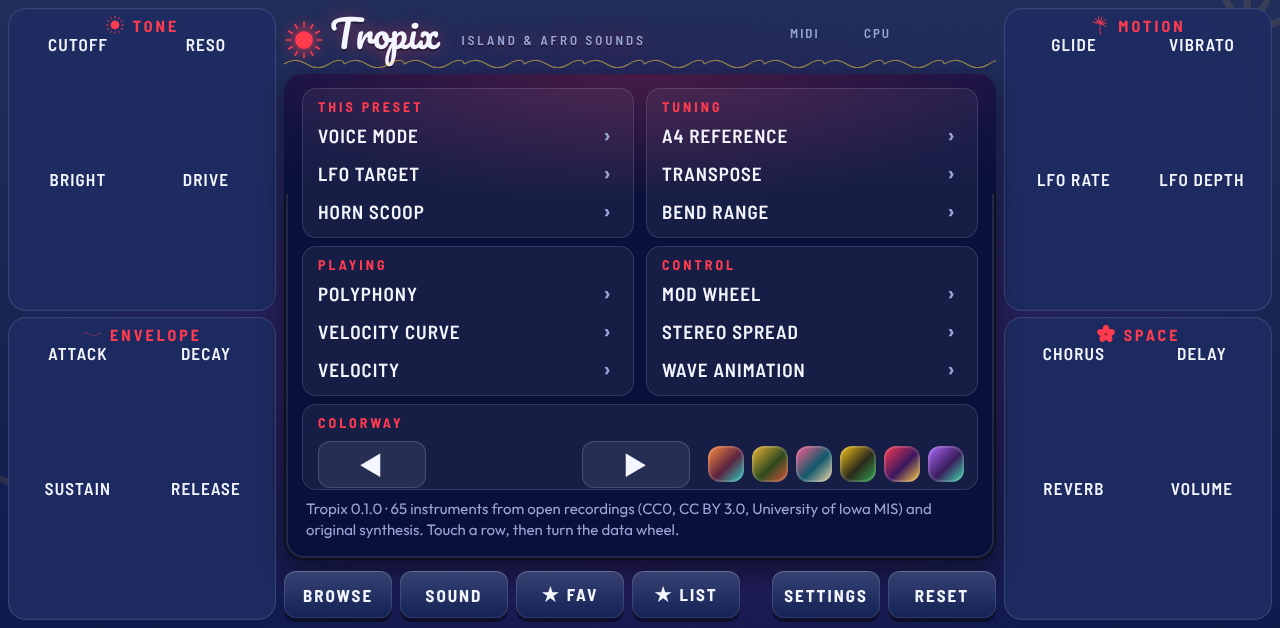
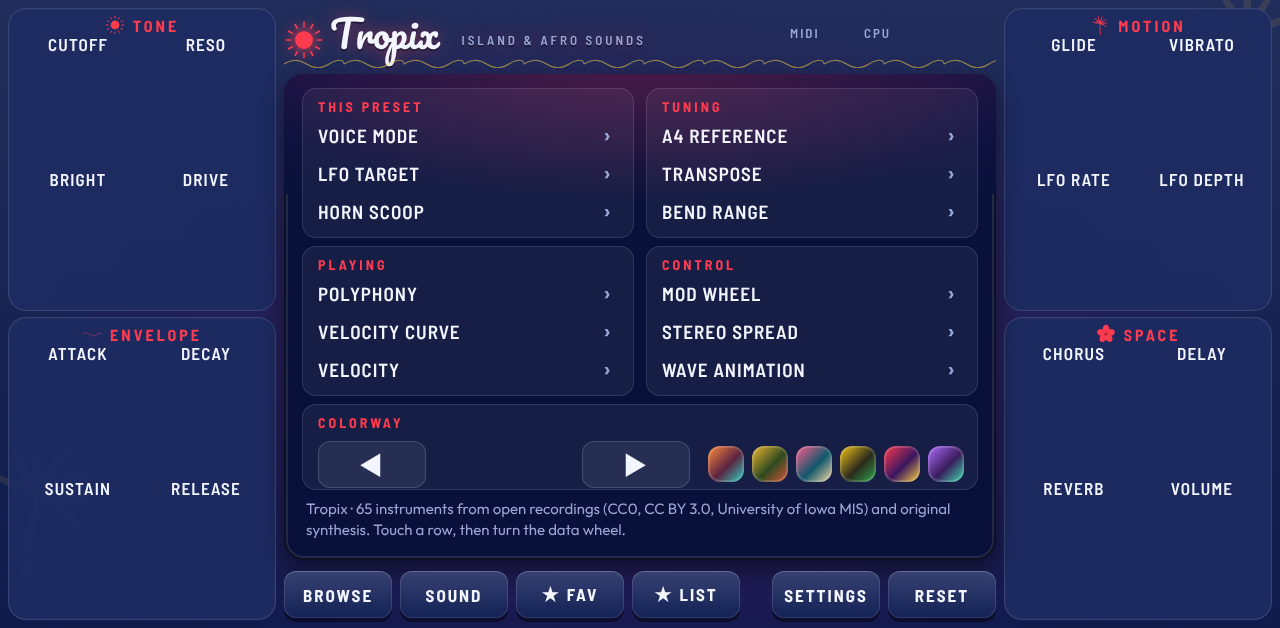
SETTINGS: no version in the about line, so the art needn't change per release
Claude-Session: https://claude.ai/code/session_01VzP5McZMmBVAin6Mtzdvhn

Changed region(s): [[0.25, 0.7866, 0.75, 0.8774]]

diff --git a/tools/make_skin.py b/tools/make_skin.py
@@ -320,7 +320,7 @@ def settings_html(th):
         out.append(f"<div class='abs' style='left:{sx}px;top:{sy}px;width:{sw}px;height:{sh}px;border-radius:12px;"
                    f"background:linear-gradient(135deg,{v['accent']},{v['bg2']} 55%,{v['accent2']});box-shadow:inset 0 0 0 2px rgba(255,255,255,.15)'></div>")
     out.append(f"<div class='abs' style='left:{x + 4}px;top:{ABOUT_Y}px;width:{w - 8}px;font:400 15px Outfit;line-height:1.4;color:var(--dim)'>"
-               f"Tropix {VERSION} · 65 instruments from open recordings (CC0, CC BY 3.0, University of Iowa MIS) and original "
+               f"Tropix · 65 instruments from open recordings (CC0, CC BY 3.0, University of Iowa MIS) and original "
                f"synthesis. Touch a row, then turn the data wheel.</div>")
     return "".join(out)
 
